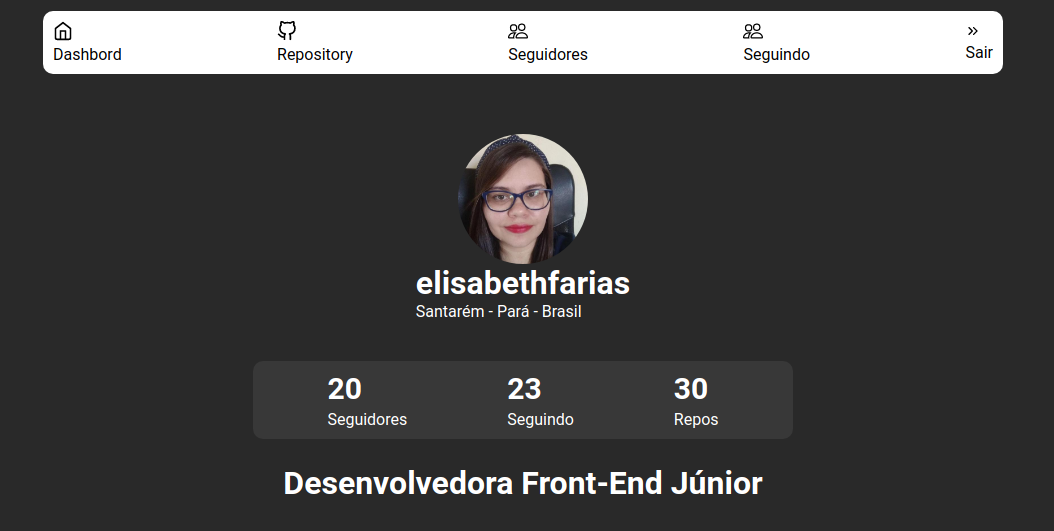
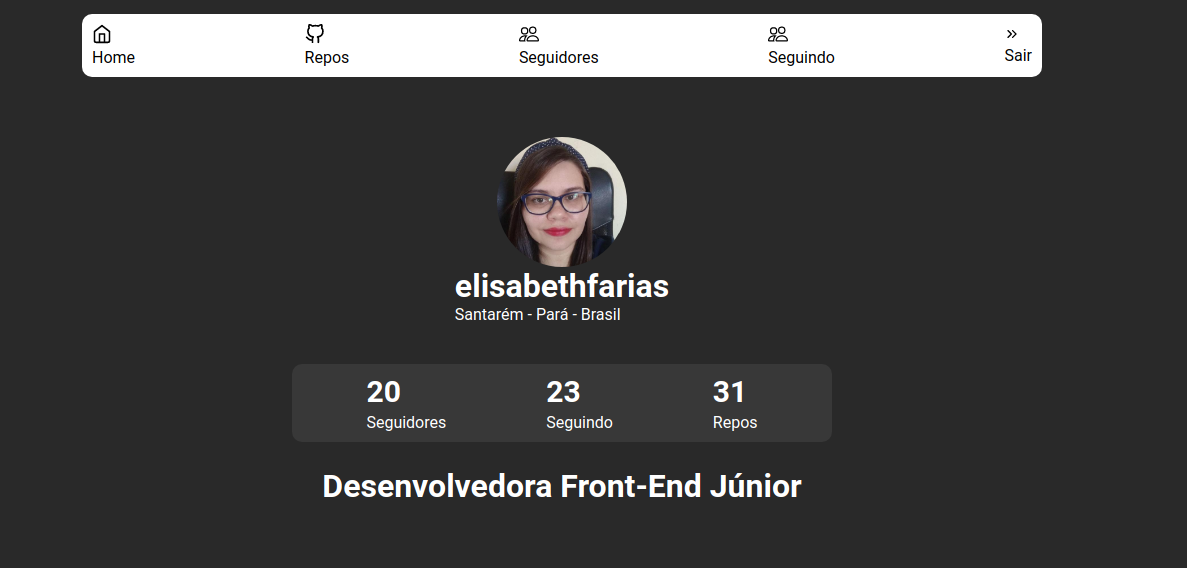
adjusted challenge

diff --git a/src/components/Header/index.tsx b/src/components/Header/index.tsx
@@ -32,12 +32,12 @@ const Header: React.FC = () => {
       <nav>
         <Link to={`/dashboard/${user?.login}`}>
           <FiHome size={20} />
-          Dashbord
+          Home
         </Link>
 
         <Link to={`/repository/${user?.login}`}>
           <FiGithub size={20} />
-          Repository
+          Repos
         </Link>
 
         <Link to={`/followers/${user?.login}`}>
